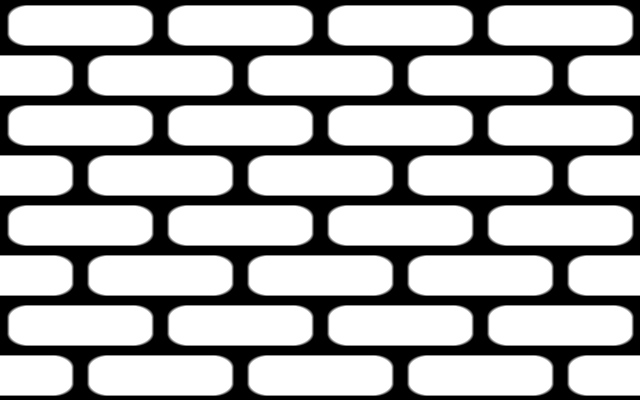
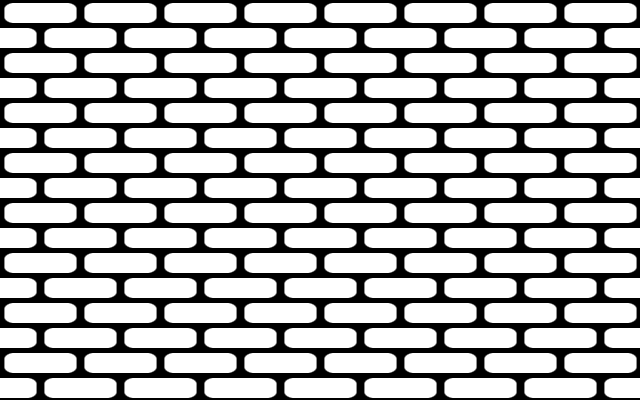
Added voronoi-basic and brick properties

diff --git a/noises-and-patterns/src/pattern/bricks.rs b/noises-and-patterns/src/pattern/bricks.rs
@@ -1,0 +1,83 @@
+use crate::prelude::*;
+
+pub struct Bricks {
+    ratio               : FP,
+    brick               : FP,
+    cell                : FP,
+    gap                 : FP,
+    bevel               : FP,
+    round               : FP,
+
+}
+
+impl Pattern for Bricks {
+
+    fn new() -> Self {
+        Self {
+            ratio       : 2.0,
+            brick       : 1.0,
+            cell        : 16.0,
+            gap         : 0.08,
+            bevel       : 0.07,
+            round       : 0.25,
+        }
+    }
+
+    fn set_property(&mut self, name: &str, value: FP) {
+        if name == "ratio" {
+            self.ratio = value;
+        } else
+        if name == "brick" {
+            self.brick = value;
+        } else
+        if name == "cell" {
+            self.cell = value;
+        } else
+        if name == "gap" {
+            self.gap = value;
+        } else
+        if name == "bevel" {
+            self.bevel = value;
+        } else
+        if name == "round" {
+            self.round = value;
+        }
+    }
+
+    fn pattern_2d(&self, p: (FP, FP)) -> FP {
+        let uv = FP2::new(p.0, p.1);
+
+        let mut u = uv;// + FP2::new(10000.0, 10000.0);
+
+        let bevel = FP2::new(self.bevel, self.bevel);
+        let gap = FP2::new(self.gap, self.gap);
+        let round = self.round;
+        //let missing = 0.0;
+
+        let w = FP2::new(self.ratio,1.0);
+        u = u.component_mul(&FP2::new(self.cell, self.cell).component_div(&w));
+
+        if self.brick == 1.0 {
+            u.x += 0.5 * u.y.floor() % 2.0;
+        }
+
+        //hash = hash21(floor(U))
+
+        let t = glm::fract(&u) - FP2::new(1.0, 1.0) / 2.0;
+        let s = w.component_mul(&t);
+
+        let a = w / 2.0 - gap - glm::abs(&s);
+        let b = a.component_mul(&FP2::new(2.0, 2.0)).component_div(&bevel);
+        let mut m = b.x.min(b.y);
+        if a.x < round && a.y < round {
+           m = (round - glm::length(&(FP2::new(round, round) - a))) * 2.0 / glm::dot(&bevel,&glm::normalize(&(FP2::new(round, round) - a)));
+        }
+
+        //if MISSING > missingHash(floor(U)) {
+        //    isMissing = true
+        //}
+
+        m.clamp(0.0, 1.0)
+    }
+
+}

diff --git a/noises-and-patterns/src/noise/voronoibasic.rs b/noises-and-patterns/src/noise/voronoibasic.rs
@@ -1,0 +1,46 @@
+use crate::prelude::*;
+
+// Based on https://www.shadertoy.com/view/MslGD8
+
+pub struct VoronoiBasic {}
+
+impl Noise for VoronoiBasic {
+
+    fn new() -> Self {
+        Self {
+
+        }
+    }
+
+    fn get_2d(&self, p: (FP, FP)) -> FP {
+
+        /// 2D hash, 2 out
+        fn hash2d_2(mut p: FP2 ) -> FP2 {
+            p = FP2::new(glm::dot(&p, &FP2::new(127.1, 311.7)),
+                    glm::dot(&p, &FP2::new(269.5,183.3)));
+            glm::fract(&glm::sin(&p).component_mul( &FP2::new(18.5453, 18.5453 )))
+        }
+
+        let x = FP2::new(p.0, p.1);
+        let n = glm::floor(&x);
+        let f = glm::fract(&x);
+
+        let mut m = FP3::new( 8.0, 8.0, 8.0 );
+        for j in -1..=1 {
+            for i in -1..=1 {
+                let  g = FP2::new( i as FP, j as FP );
+                let  o = hash2d_2( n + g );
+
+                let r = g - f + (FP2::new(0.5, 0.5) + 0.5 * glm::sin(&(6.2831*o)));
+                let d = glm::dot( &r, &r );
+                if d < m.x {
+                    m = FP3::new( d, o.x, o.y );
+                }
+            }
+        }
+
+        return m.y + m.z;//m.x.sqrt()//, m.y+m.z );
+    }
+
+
+}

diff --git a/generator/src/main.rs b/generator/src/main.rs
@@ -9,7 +9,9 @@ fn main() {
     let height = 400;
 
     //let value = Value::new();
-    let bricks = Bricks::new();
+    //let mut bricks = Bricks::new();
+    //bricks.set_property("round", 0.0);
+    let noise = VoronoiBasic::new();
 
     // Generate
 
@@ -17,9 +19,9 @@ fn main() {
 
     for y in 0..height {
         for x in 0..width {
-            // let v = value.get_2d(((x as FP) * 0.1, (y as FP) * 0.1));
-            //let v = value.fbm_2d(((x as FP) * 0.1, (y as FP) * 0.1), 5);
-            let v = bricks.pattern_2d(((x as FP / width as FP) * 8.0, (y as FP / height as FP) * 8.0));
+            let v = (noise.get_2d(((x as FP) * 0.01, (y as FP) * 0.01)) + 1.0) / 2.0;
+            //let v = noise.fbm_2d(((x as FP) * 1.1, (y as FP) * 0.1), 5);
+            //let v = bricks.pattern_2d(((x as FP / width as FP), (y as FP / height as FP)));
 
             let v_u8 = (v * 255.0) as u8;
             let color = [v_u8, v_u8, v_u8, 255];

diff --git a/noises-and-patterns/src/noise.rs b/noises-and-patterns/src/noise.rs
@@ -1,5 +1,8 @@
 use crate::prelude::*;
 
+pub mod value;
+pub mod voronoibasic;
+
 pub trait Noise {
 
     fn new() -> Self;
@@ -8,7 +11,24 @@ pub trait Noise {
     fn get_2d(&self, p: (FP, FP)) -> FP;
 
     // 2D fbm for the given position and the octaves
-    fn fbm_2d(&self, p: (FP, FP), octaves: i32) -> FP;
+    //fn fbm_2d(&self, p: (FP, FP), octaves: i32) -> FP;
+    fn fbm_2d(&self, p: (FP, FP), octaves: i32) -> FP {
+        let mut x = FP2::new(p.0, p.1);
+
+        let mut v = 0.0;
+        let mut a = 0.5;
+        let shift = FP2::new(100.0, 100.0);
+
+        // Rotate to reduce axial bias
+        let rot =  Matrix2::new(0.87758256189, 0.4794255386, -0.4794255386, 0.87758256189);
+
+        for _i in 0..octaves {
+            v += a * self.get_2d((x.x, x.y));
+            x = rot * x * 2.0 + shift;
+            a *= 0.5;
+        }
+        v
+    }
 
     /// 2D hash
     #[inline(always)]

diff --git a/noises-and-patterns/src/noise/value.rs b/noises-and-patterns/src/noise/value.rs
@@ -35,22 +35,4 @@ impl Noise for Value {
 
         self.mix(&a, &b, &u.x) + (c - a) * u.y * (1.0 - u.x) + (d - b) * u.x * u.y
     }
-
-    fn fbm_2d(&self, p: (FP, FP), octaves: i32) -> FP {
-        let mut x = FP2::new(p.0, p.1);
-
-        let mut v = 0.0;
-        let mut a = 0.5;
-        let shift = FP2::new(100.0, 100.0);
-
-        // Rotate to reduce axial bias
-        let rot =  Matrix2::new(0.87758256189, 0.4794255386, -0.4794255386, 0.87758256189);
-
-        for _i in 0..octaves {
-            v += a * self.get_2d((x.x, x.y));
-            x = rot * x * 2.0 + shift;
-            a *= 0.5;
-        }
-        v
-    }
 }

diff --git a/noises-and-patterns/src/lib.rs b/noises-and-patterns/src/lib.rs
@@ -11,10 +11,8 @@ pub type FP3 = glm::Vec3;
 // pub type FP3 = glm::DVec3;
 
 pub mod noise;
-pub mod value;
 
 pub mod pattern;
-pub mod bricks;
 
 pub mod prelude {
     pub use crate::FP;
@@ -26,7 +24,8 @@ pub mod prelude {
     pub use crate::noise::Noise;
     pub use crate::pattern::Pattern;
 
-    pub use crate::value::*;
-    pub use crate::bricks::*;
+    pub use crate::noise::value::Value;
+    pub use crate::noise::voronoibasic::VoronoiBasic;
 
+    pub use crate::pattern::bricks::Bricks;
 }

diff --git a/noises-and-patterns/src/pattern.rs b/noises-and-patterns/src/pattern.rs
@@ -1,9 +1,14 @@
 use crate::prelude::*;
 
+pub mod bricks;
+
 pub trait Pattern {
 
     fn new() -> Self;
 
     /// 2D pattern for the given position and display ratio (width / height)
     fn pattern_2d(&self, p: (FP, FP)) -> FP;
+
+    /// For setting pattern properties
+    fn set_property(&mut self, name: &str, value: FP);
 }

diff --git a/Readme.md b/Readme.md
@@ -10,7 +10,7 @@ This library uses the [nalgebra-glm](https://docs.rs/nalgebra-glm/latest/nalgebr
 
 ### Precision
 
-By default the library compiles to ```f32``` you can change the values in *lib.rs* as instructed and compile the library to ```f64`` if needed.
+By default the library compiles to ```f32``` via a type definition of ```FP``` in *lib.rs*, you can change  the type as instructed and compile the library to ```f64``` if needed.
 
 ### The Traits
 
@@ -34,6 +34,9 @@ pub trait Pattern {
 
     /// 2D noise for the given position
     fn pattern_2d(&self, p: (FP, FP)) -> FP;
+
+    /// For setting pattern properties
+    fn set_property(&mut self, name: &str, value: FP);
 }
 
 ```
@@ -42,25 +45,25 @@ pub trait Pattern {
 
 ## Value Noise
 
-Based on [1D, 2D & 3D Value Noise ](https://www.shadertoy.com/view/4dS3Wd)
+Based on [1D, 2D & 3D Value Noise](https://www.shadertoy.com/view/4dS3Wd)
 
 ```rust
-    let mut pixels = vec![0;width * height * 4];
-    let value = Value::new();
+let mut pixels = vec![0;width * height * 4];
+let value = Value::new();
 
-    for y in 0..height {
-        for x in 0..width {
-            // let v = value.noise_2d(((x as FP) * 0.1, (y as FP) * 0.1));
-            let v = value.fbm_2d(((x as FP) * 0.1, (y as FP) * 0.1), 5);
+for y in 0..height {
+    for x in 0..width {
+        // let v = value.noise_2d(((x as FP) * 0.1, (y as FP) * 0.1));
+        let v = value.fbm_2d(((x as FP) * 0.1, (y as FP) * 0.1), 5);
 
-            let v_u8 = (v * 255.0) as u8;
-            let color = [v_u8, v_u8, v_u8, 255];
+        let v_u8 = (v * 255.0) as u8;
+        let color = [v_u8, v_u8, v_u8, 255];
 
-            let d = x * 4 + y * width * 4;
+        let d = x * 4 + y * width * 4;
 
-            pixels[d..d+4].copy_from_slice(&color);
-        }
+        pixels[d..d+4].copy_from_slice(&color);
     }
+}
 ```
 
 <table><tr>
@@ -68,29 +71,70 @@ Based on [1D, 2D & 3D Value Noise ](https://www.shadertoy.com/view/4dS3Wd)
 <td> <img src="images/value2d_fbm.png" alt="Value 2D FBM" style="width: 500px;"/> </td>
 </tr></table>
 
+## VoronoiBasic
+
+Based on [Voronoi Basic](https://www.shadertoy.com/view/MslGD8)
+
+```rust
+let mut pixels = vec![0;width * height * 4];
+let noise = VoronoiBasic::new();
+
+for y in 0..height {
+    for x in 0..width {
+        let v = (noise.get_2d(((x as FP) * 0.01, (y as FP) * 0.01)) + 1.0) / 2.0;
+
+        let v_u8 = (v * 255.0) as u8;
+        let color = [v_u8, v_u8, v_u8, 255];
+
+        let d = x * 4 + y * width * 4;
+
+        pixels[d..d+4].copy_from_slice(&color);
+    }
+}
+```
+
+![Voronoi](images/voronoibasic.png)
+
 # Patterns
 
 ## Bricks
 
+Based on [Bricks and Tiles](https://www.shadertoy.com/view/lsVyRK). Used here with permission from Fabrice under the MIT.
+
 ```rust
-    let mut pixels = vec![0;width * height * 4];
-    let bricks = Bricks::new();
+let mut pixels = vec![0;width * height * 4];
+let mut bricks = Bricks::new();
+bricks.set_property("round", 0.0);
 
-    for y in 0..height {
-        for x in 0..width {
-            let scale = 0.8; // Scale as needed
-            let v = bricks.pattern_2d(((x as FP / width as FP) * scale, (y as FP / height as FP) * scale));
+for y in 0..height {
+    for x in 0..width {
+        let v = bricks.pattern_2d(((x as FP / width as FP), (y as FP / height as FP)));
 
-            let v_u8 = (v * 255.0) as u8;
-            let color = [v_u8, v_u8, v_u8, 255];
+        let v_u8 = (v * 255.0) as u8;
+        let color = [v_u8, v_u8, v_u8, 255];
 
-            let d = x * 4 + y * width * 4;
+        let d = x * 4 + y * width * 4;
 
-            pixels[d..d+4].copy_from_slice(&color);
-        }
+        pixels[d..d+4].copy_from_slice(&color);
     }
+}
 ```
 
 ![Bricks](images/bricks.png)
 
-TODO Support the various brick parameters.
+Supported properties:
+
+```rust
+// The ratio of width / height of the bricks. 1.0 means they are square, larger values increases the width, default 2.0.
+bricks.set_property("ratio", 1.0);
+// A value of 1.0 (default) offsets every second line, otherwise aligns the bricks vertically.
+bricks.set_property("brick", 0.0);
+// The cell size, a global scaling factor, default 16.0
+bricks.set_property("cell", 16.0);
+// The gap between bricks, default 0.08.
+bricks.set_property("gap", 0.1);
+// The bevel of the brick, larger values provide a smoother transition, by default 0.07.
+bricks.set_property("bevel", 0.1);
+// The roundness of the brick, 0.0 creates square bricks, 1.0 circular ones. Default is 0.25.
+bricks.set_property("round", 0.25);
+```
